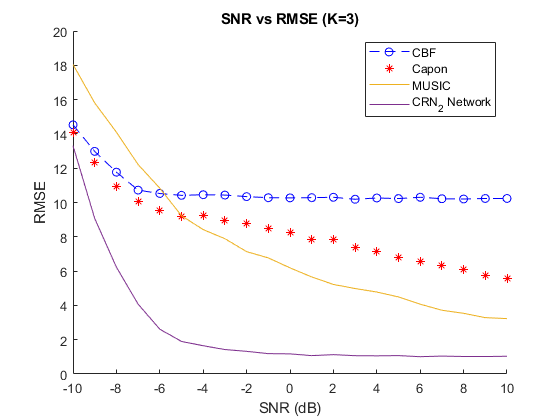
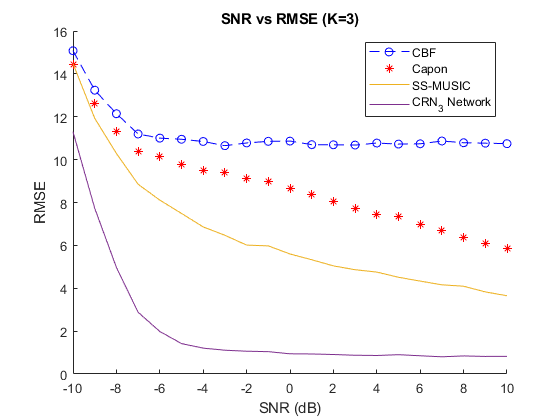
CRN with different number of sources

diff --git a/Deep-Learning Basics on MATLAB/CRN v4/Version 2.6/Comparison_Scenarios.m b/Deep-Learning Basics on MATLAB/CRN v4/Version 2.6/Comparison_Scenarios.m
@@ -5,13 +5,13 @@ clear; clc; close all;
 addpath('D:\D\Alp\Master ODTÜ\Thesis\DOA\Codes\Direction-of-Arrival');
 DOA = FunctionsOfDOA();
 
-load CRN_Network_v2_6_K7.mat
+load CRN_Network_v2_6_K3.mat
 
 %% 
 sensor_locations = [0 1 4 7 9]; % MRA with 5 sensors
 M = length(sensor_locations);
 N = sensor_locations(M) + 1;
-K = 7;          % # of sources
+K = 3;          % # of sources
 L = 70;        % # of snapshots
 
 phi_min = 30;
@@ -96,7 +96,7 @@ net_name = "CRN_" + K + " Network";
 legend('CBF', 'Capon', 'SS-MUSIC', net_name);
 title_text = "SNR vs RMSE (K=" + K + ")";
 title(title_text)
-ylim([0 19])
+% ylim([0 25])
 %% Functions
 
 % DOA Estimator

diff --git a/Deep-Learning Basics on MATLAB/CRN v4/Version 2.6/create_dataset.m b/Deep-Learning Basics on MATLAB/CRN v4/Version 2.6/create_dataset.m
@@ -29,7 +29,7 @@ Q = (phi_max - phi_min) / delta_phi + 1;
 features = zeros(M, M, 3, numOfData);
 labels = zeros(Q, numOfData);
 
-K = 7;
+K = 3;
 for idx = 1:numOfData
     doa = (-2 * delta_phi) * ones(1, K);
     i = 1;
